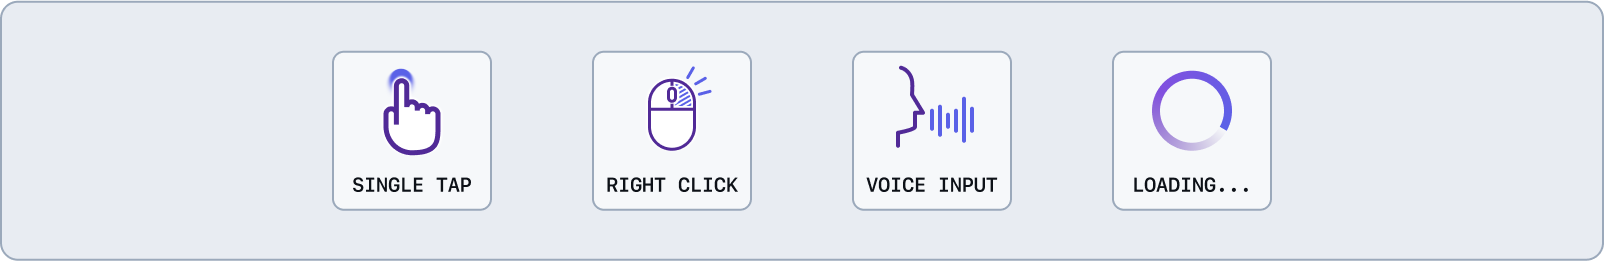
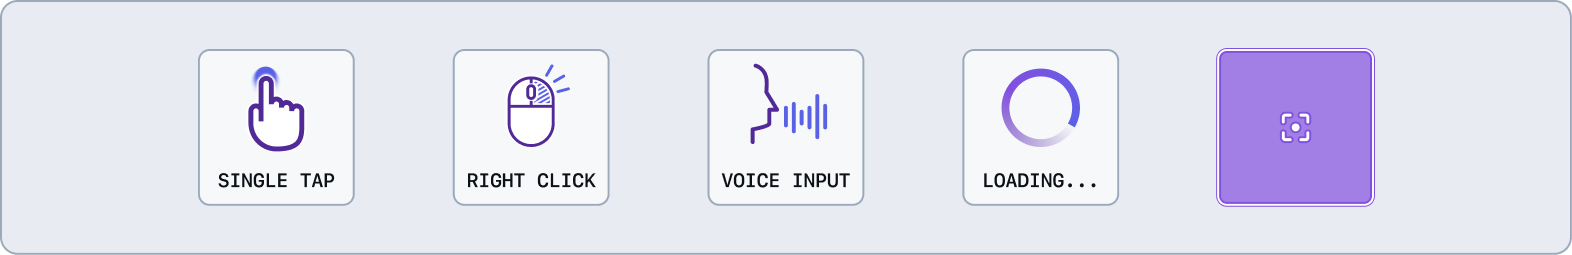
Add missing interaction target images

Changed region(s): [[0.1247, 0.1647, 0.8728, 0.8235], [0.0, 0.0, 0.9975, 0.0275], [0.4052, 0.4941, 0.4364, 0.5765]]

diff --git a/basics/features.md b/basics/features.md
@@ -84,7 +84,7 @@ Note any specific keyboard shortcuts that a page, component, or control may prov
 ### [User interactions](../tutorials/user-interactions.md)
 Communicate various basic, specialized, and advanced touch gestures, mouse actions, target sizes, device settings, and platform functions.
 
-<img width="800" src="../.images/features-user-interactions.png" alt="Five light gray stamps conveying user interactions. From left to right: a pointer finger with a purple ring around it and label single tap; a mouse icon with right clicker dashed and label right click; a silhouette of a face with vertical bars coming out the mouth and label voice input; a purple circle with slowly disappearing tail and label loading; and a semi-translucent purple square with a full-screen octicon for Interaction Target Area.">
+<img width="800" src="../.images/features-user-interactions.png" alt="Five stamps conveying user interactions. From left to right: a pointer finger with a purple ring around it and label single tap; a mouse icon with right clicker dashed and label right click; a silhouette of a face with vertical bars coming out the mouth and label voice input; a purple circle with slowly disappearing tail and label loading; and a semi-translucent purple square with a full-screen octicon for Interaction Target Area.">
 
 ## Document complex components
 Fill in the gaps that aren’t obvious from visuals and properties alone.

diff --git a/tutorials/user-interactions.md b/tutorials/user-interactions.md
@@ -127,6 +127,8 @@ Larger targets and enough space between them help people activate the intended c
 
 On mobile devices, fingers can obscure small targets, and movement or one-handed use can make precise tapping harder. Follow the platform's guidance for target size and spacing.
 
+<img src="Images/target-size-annotation.png" alt="Purple Interaction Target Area stamps in three sizes. On the left, the stamps use the Default style and square corners. On the right, the stamps use the Inverted style and rounded corners, and the largest stamp displays the optional 1 Note label." width="1012">
+
 ### How to use
 
 1. Add the **Interaction Target Area** component from the asset panel. Position it over the control so the inside edge of the outline marks the target's edge. Resize the component to fully overlap the intended interactive area.
